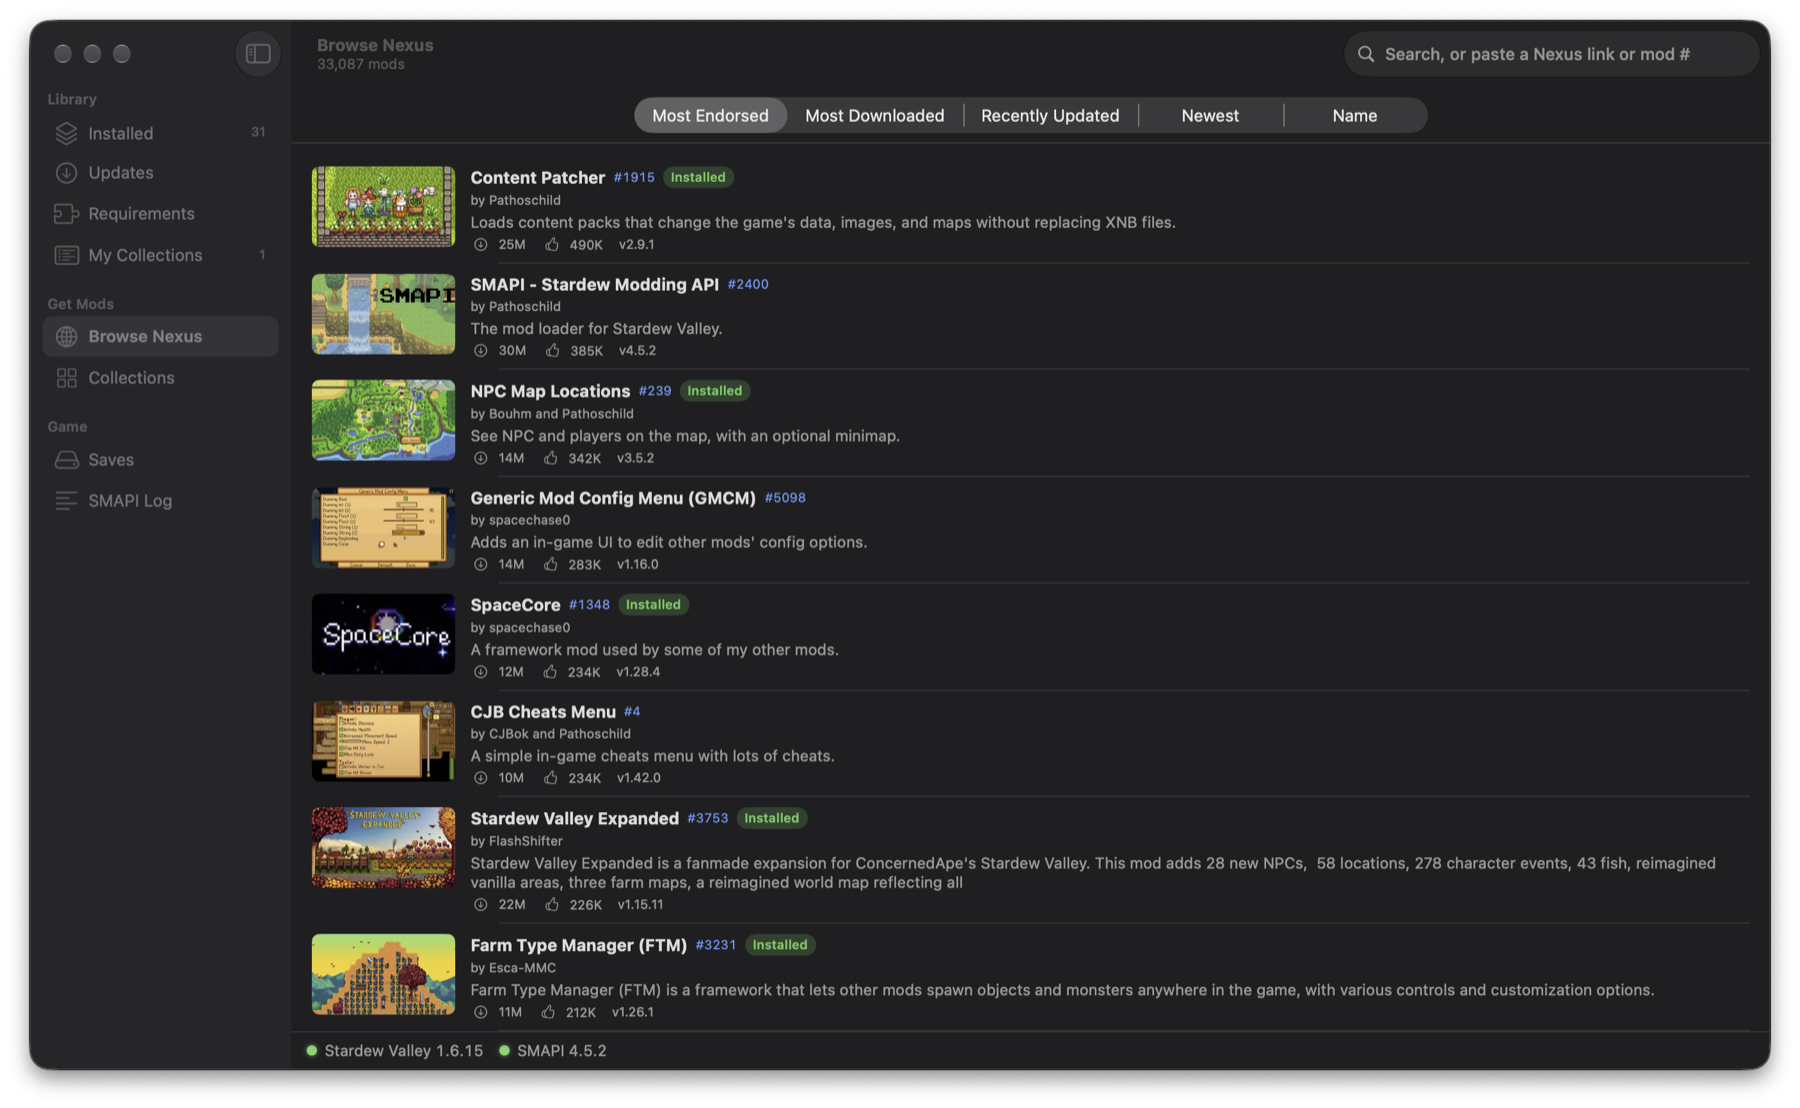
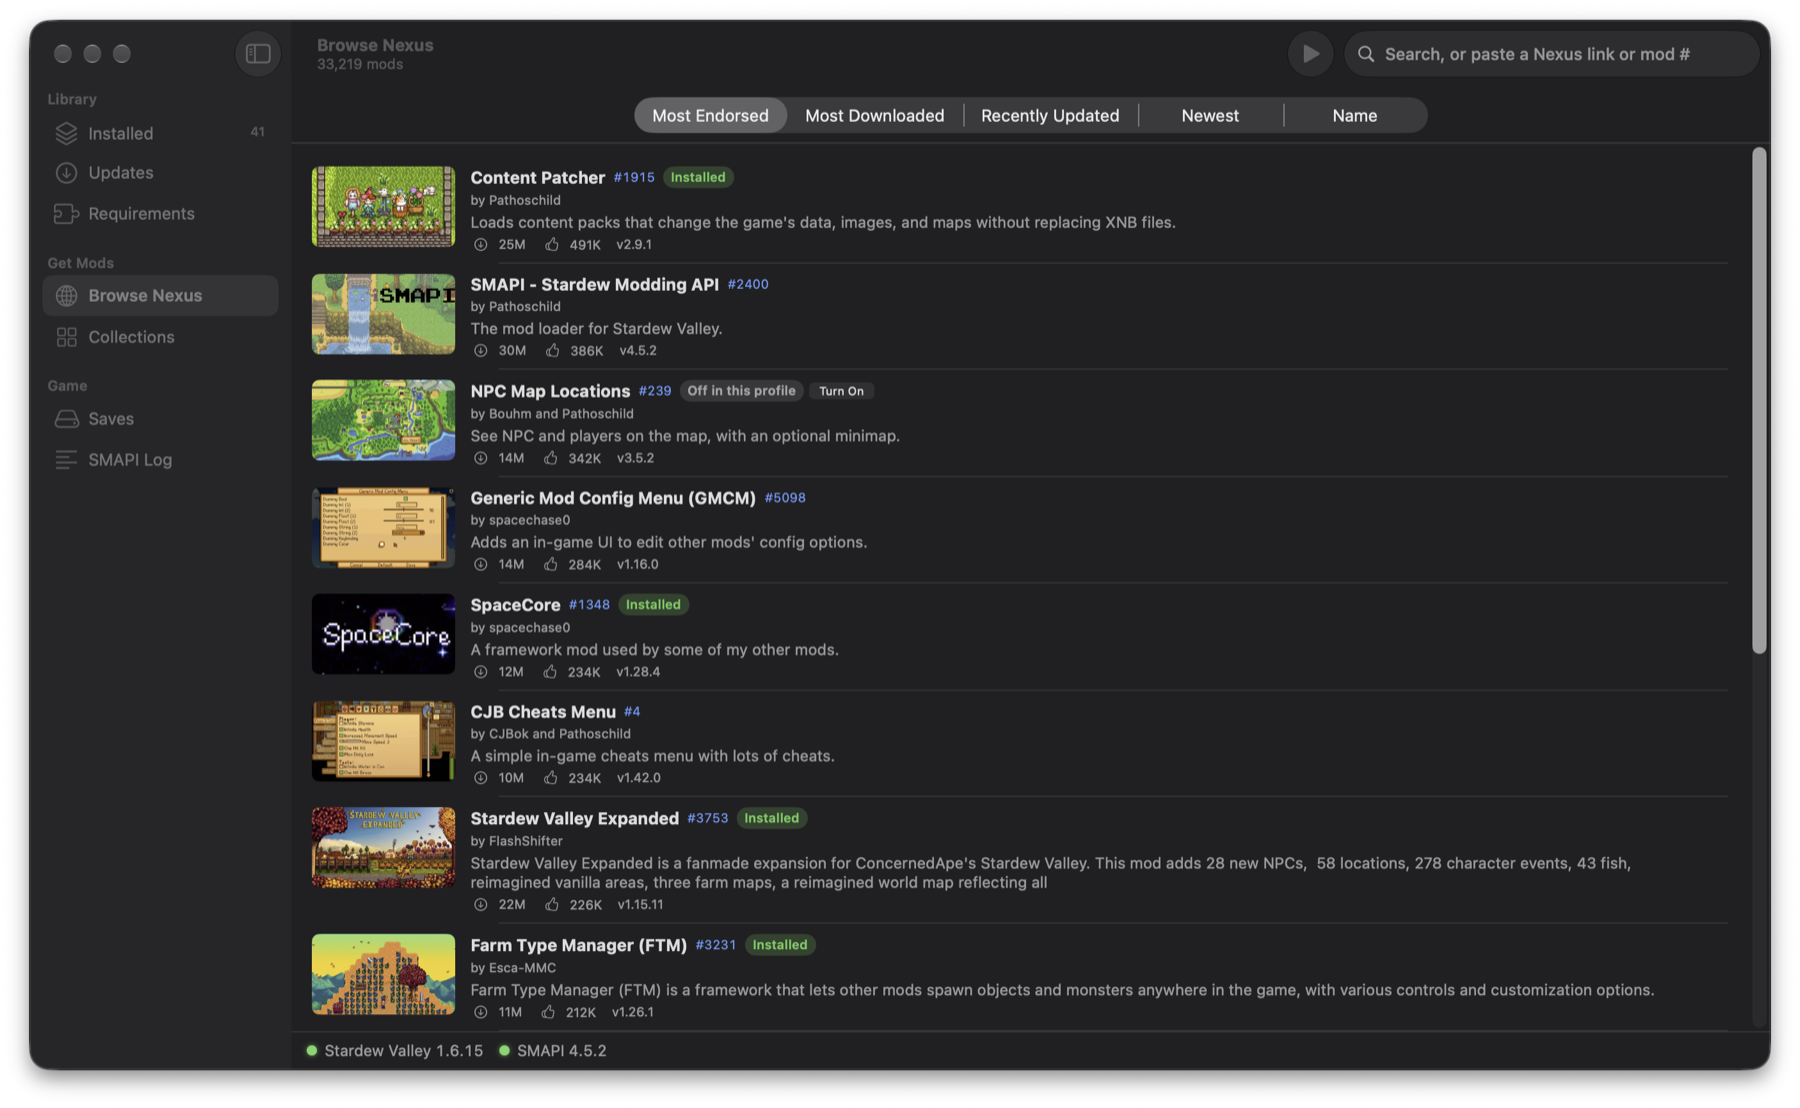
Refresh README screenshots and tour for 2.4; SMAPI shows as Installed in Browse
- New screenshots: setup assistant, profile panel, collection into its profile, SMAPI log with loaded mods
- README tour describes profiles, saves by profile and the setup assistant
- DEVELOPMENT.md file map: drop My Collections, add the newer files

diff --git a/App/BrowseView.swift b/App/BrowseView.swift
@@ -184,7 +184,19 @@ struct InstalledBadge: View {
     let nexusID: Int
 
     var body: some View {
-        if let installed = model.installedMod(nexusID: nexusID) {
+        if nexusID == NexusClient.smapiModID {
+            // SMAPI lives next to the game, not in Mods.
+            if let version = model.smapi?.version {
+                let outdated = model.isSMAPIOutdated
+                Text(outdated ? "Update" : "Installed")
+                    .font(.caption2.bold())
+                    .padding(.horizontal, 6)
+                    .padding(.vertical, 2)
+                    .background((outdated ? Color.orange : Color.green).opacity(0.2), in: Capsule())
+                    .foregroundStyle(outdated ? .orange : .green)
+                    .help("Installed \(version.description)")
+            }
+        } else if let installed = model.installedMod(nexusID: nexusID) {
             if model.isInstalledButOff(nexusID: nexusID) {
                 HStack(spacing: 4) {
                     Text("Off in this profile")

diff --git a/README.md b/README.md
@@ -5,13 +5,13 @@
 *A mod manager for Stardew Valley on macOS.*
 
 Install, update and organize your Stardew Valley mods on a Mac: browse
-Nexus Mods, install mods and whole collections, keep everything up to date,
-and find out quickly what's wrong when the game misbehaves.
+Nexus Mods, install mods and whole collections, keep a profile for each way
+you play, and find out quickly what's wrong when the game misbehaves.
 
 **[Download Starseed for Mac](https://github.com/matguitarist/starseed/releases/latest/download/Starseed.dmg)**
 (macOS 14 Sonoma or later)
 
-![Starseed's Installed list with mod pictures, and Stardew Valley Expanded's details](docs/screenshots/installed.png)
+![Starseed's Installed list showing the mods of a profile, with Stardew Valley Expanded's details](docs/screenshots/installed.png)
 
 ## Install
 
@@ -47,31 +47,48 @@ everything else is explained in **Help → Starseed Help** (⌘?).
 
 ## A quick tour
 
+**Ready in a minute.** The setup assistant finds your game (Steam, GOG or Mac
+App Store), installs SMAPI, picks the Mods folder and connects your Nexus
+account. A short tip on each page explains what it's for.
+
+![The setup assistant's welcome page](docs/screenshots/setup.png)
+
 **Your mods at a glance.** Every mod in your Mods folder with its picture,
 version and status. Multi-part mods like Stardew Valley Expanded show as one
 row. The details panel shows what a mod needs, which mods use it, and any
 conflicts. At the bottom, green, yellow or red dots tell you whether the game
 and SMAPI are up to date, with one-click updates.
 
+**A profile for each way you play.** A profile remembers which mods are on:
+a big expansion run, a vanilla-plus farm, a collection. Switch from the
+profile menu and your mods follow; nothing is deleted. Each farm remembers the
+profile it's played with, and Play switches to it first.
+
+![The profile in use, made from a Nexus collection](docs/screenshots/profile.png)
+
 **Find and install mods from Nexus.** Search or browse the most popular mods,
-see their requirements, and install them along with what they need. Updates
-show up in the list; read what's new, then update in one click.
+see their requirements, and install them along with what they need. Mods you
+have in another profile say so, with a button to turn them on. Updates show up
+in the list; read what's new, then update one mod or all of them.
 
 ![Browsing Stardew Valley mods on Nexus](docs/screenshots/browse.png)
 
 **Install whole collections.** Nexus collections (curated mod packs) install
-every mod at the versions they were made with.
+into their own profile, so they don't mix with your other mods, and mods you
+already have aren't downloaded again. Their optional mods stay one click away.
 
-![Nexus collections in Starseed](docs/screenshots/collections.png)
+![A Nexus collection, ready to install into its profile](docs/screenshots/collection.png)
 
 **When something breaks.** After you play, Starseed tells you if mods failed
 to load, had errors or conflicted, in plain words with a button to fix each
-one. If the log doesn't say which mod is to blame, **Find a Broken Mod**
-narrows it down in a few launches.
+one. The SMAPI log lists the mods that loaded. If the log doesn't say which
+mod is to blame, **Find a Broken Mod** narrows it down in a few launches.
+
+![The SMAPI log with the mods that loaded](docs/screenshots/log.png)
 
 **Keep your farms safe.** Saves are backed up before you play with changed
-mods, each farm remembers the profile it's played with, and earlier mod
-versions are kept so an update can be rolled back.
+mods, and earlier mod versions are kept so an update can be rolled back.
+Everything is explained in the built-in help.
 
 ![Starseed's Help window](docs/screenshots/help.png)
 
@@ -80,9 +97,10 @@ versions are kept so an update can be rolled back.
 **Installing**
 - Browse and search Nexus Mods, see each mod's files and requirements, and
   install with what it needs.
-- Install Nexus collections, or your own mod archives (.zip, .7z, .rar) by
-  dropping them on the window.
+- Install Nexus collections into their own profile, or your own mod archives
+  (.zip, .7z, .rar) by dropping them on the window.
 - Install, update and reconnect SMAPI in one click.
+- A setup assistant for first launch, and a tip on each page.
 - Mods that aren't on Nexus (ModDrop, GitHub…) get a button to their page.
 
 **Keeping up to date**
@@ -94,7 +112,8 @@ versions are kept so an update can be rolled back.
 
 **Organizing**
 - Turn mods on and off (⌘Z undoes it), with multi-part mods kept together.
-- Profiles for different ways of playing, and a set of mods for each farm.
+- Profiles for different ways of playing: switch in one click, see only a
+  profile's mods, and start one from no mods or from a collection.
 - Export a profile (mods, versions and settings) and import it on another Mac
   or share it with a friend; missing mods download into it.
 - Edit a mod's settings in a simple form.
@@ -112,8 +131,8 @@ versions are kept so an update can be rolled back.
   computer, and installs the missing ones.
 - Save backups: back up and restore one farm or all of them; Play backs up
   your saves when your mods changed.
-- Each farm remembers the profile it's played with, and Play from Saves
-  switches to it first.
+- Saves are grouped by profile: each farm remembers the profile it's played
+  with, and Play switches to it first.
 
 **Languages:** English, French, German, Spanish, Brazilian Portuguese and
 Simplified Chinese (Settings → General → Language).

diff --git a/DEVELOPMENT.md b/DEVELOPMENT.md
@@ -66,13 +66,18 @@ stardew_mod_manager/
 │   ├── CollectionsView.swift / CollectionSheet.swift
 │   ├── LogViewerView.swift       # SMAPI log viewer
 │   ├── SavesView.swift           # saves: missing-mod analysis, backups/restore
-│   ├── MyCollectionsView.swift   # saved/exported mod lists
 │   ├── ConfigEditorView.swift    # config.json form editor
 │   ├── Background.swift          # background checks, notifications, menu bar
 │   ├── BrowseView.swift          # Nexus search
 │   ├── NexusModSheet.swift       # mod details + file list
 │   ├── SettingsView.swift        # Mods folder, Nexus API key, nxm handler
-│   ├── ProfilesView.swift
+│   ├── ProfilesView.swift        # profiles window, profile menu, profile overview panel
+│   ├── SetupAssistant.swift      # first-run setup assistant
+│   ├── PageTips.swift            # the tip at the top of each page
+│   ├── PageToolbar.swift         # Play / Refresh / panel buttons shared by pages
+│   ├── BisectView.swift          # Find a Broken Mod
+│   ├── PlayReports.swift         # report after each game session
+│   ├── HelpView.swift            # Help window and Help menu
 │   ├── Downloads.swift / Keychain.swift
 │   └── Info.plist                # generated by XcodeGen (registers nxm://)
 ├── ModManagerCore/               # local Swift package, no UI
@@ -88,7 +93,18 @@ stardew_mod_manager/
 │   │   ├── SMAPILog.swift        # SMAPI log parser
 │   │   ├── Saves.swift           # save list, mod IDs in saves, missing-content matching
 │   │   ├── SaveBackups.swift     # save backup/restore (zip, SMAPI-compatible)
-│   │   ├── ModList.swift         # My Collections: snapshot, export/import, compare
+│   │   ├── ModList.swift         # mod list snapshots (profile export/import format)
+│   │   ├── ProfileRules.swift    # profile tracking, merging, saves by profile
+│   │   ├── GameLocator.swift     # finds the game (Steam libraries, GOG, App Store)
+│   │   ├── GameStore.swift       # which store a game copy came from
+│   │   ├── SteamGame.swift       # pending Steam game updates
+│   │   ├── SMAPIInstaller.swift  # downloads and runs SMAPI's official installer
+│   │   ├── LoadedMods.swift      # the mods SMAPI's log says it loaded
+│   │   ├── PlayReport.swift      # problems from the last session's log
+│   │   ├── Bisection.swift       # Find a Broken Mod search
+│   │   ├── RequirementMatcher.swift / UnusedRequirements.swift
+│   │   ├── Changelog.swift       # What's New from Nexus changelogs
+│   │   ├── DiskUsage.swift       # Settings → Storage
 │   │   ├── ModGrouping.swift     # multi-part mod grouping
 │   │   ├── ModArchive.swift      # previous versions for rollback
 │   │   ├── ConfigJSON.swift      # order-preserving JSON5-lite reader/writer
